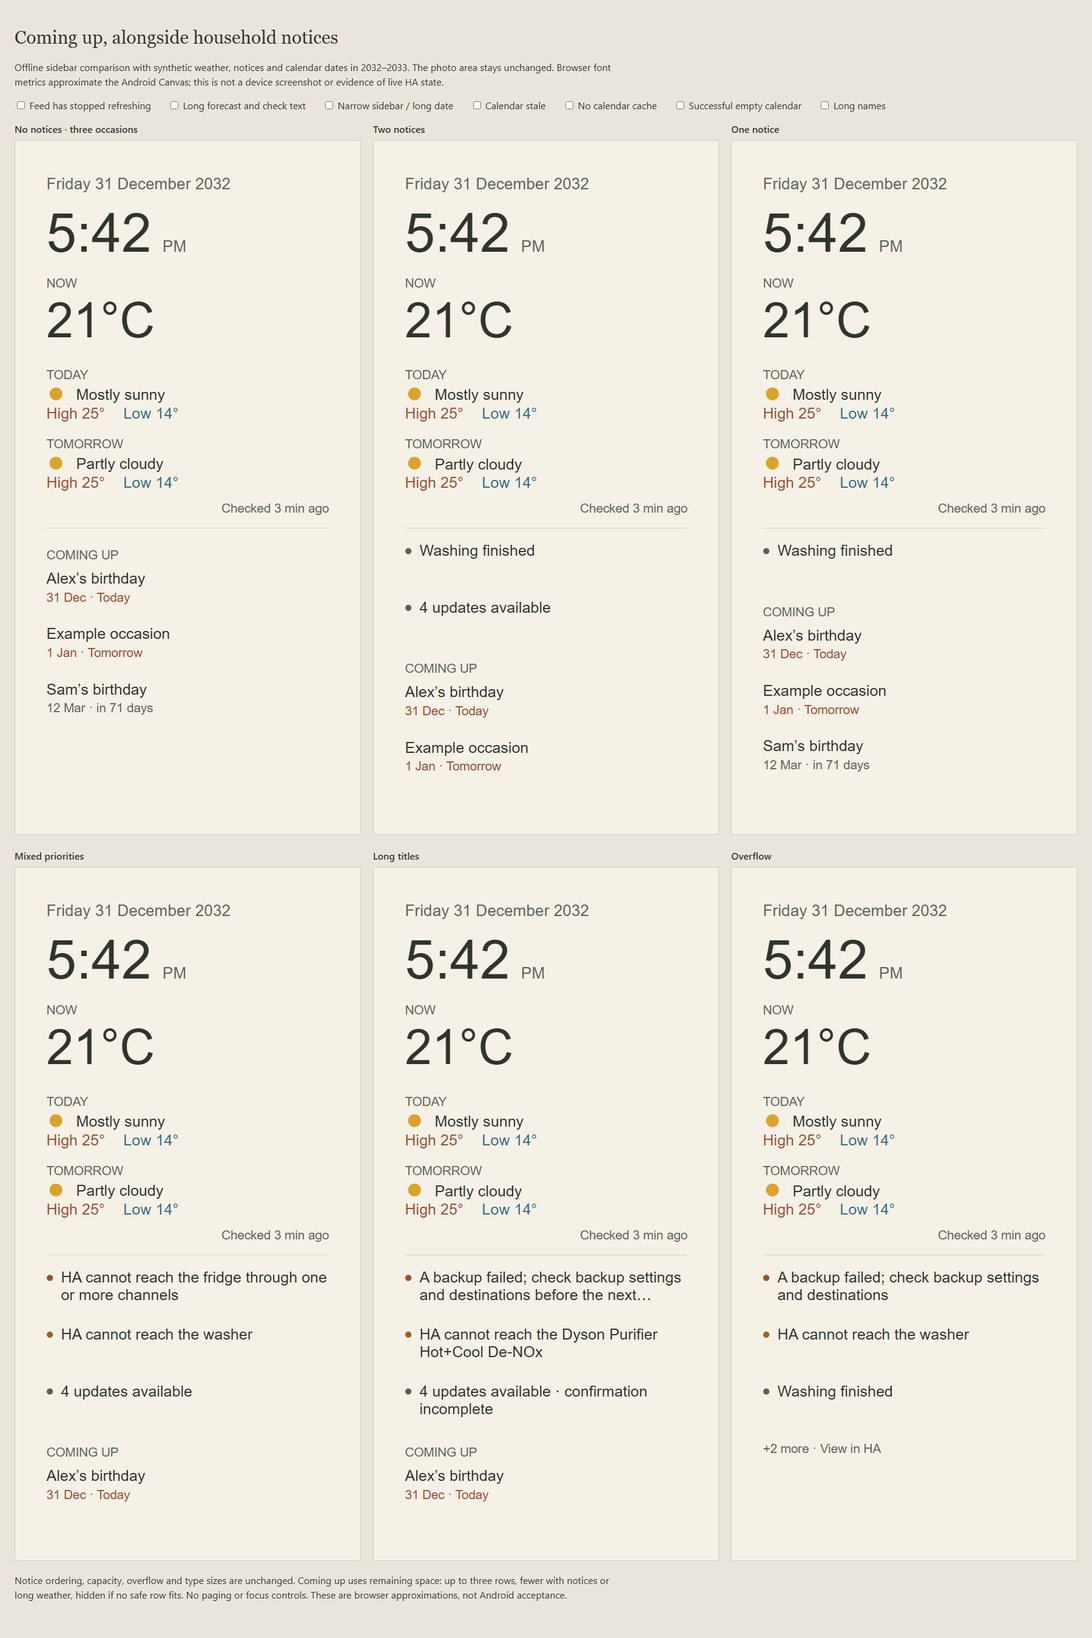
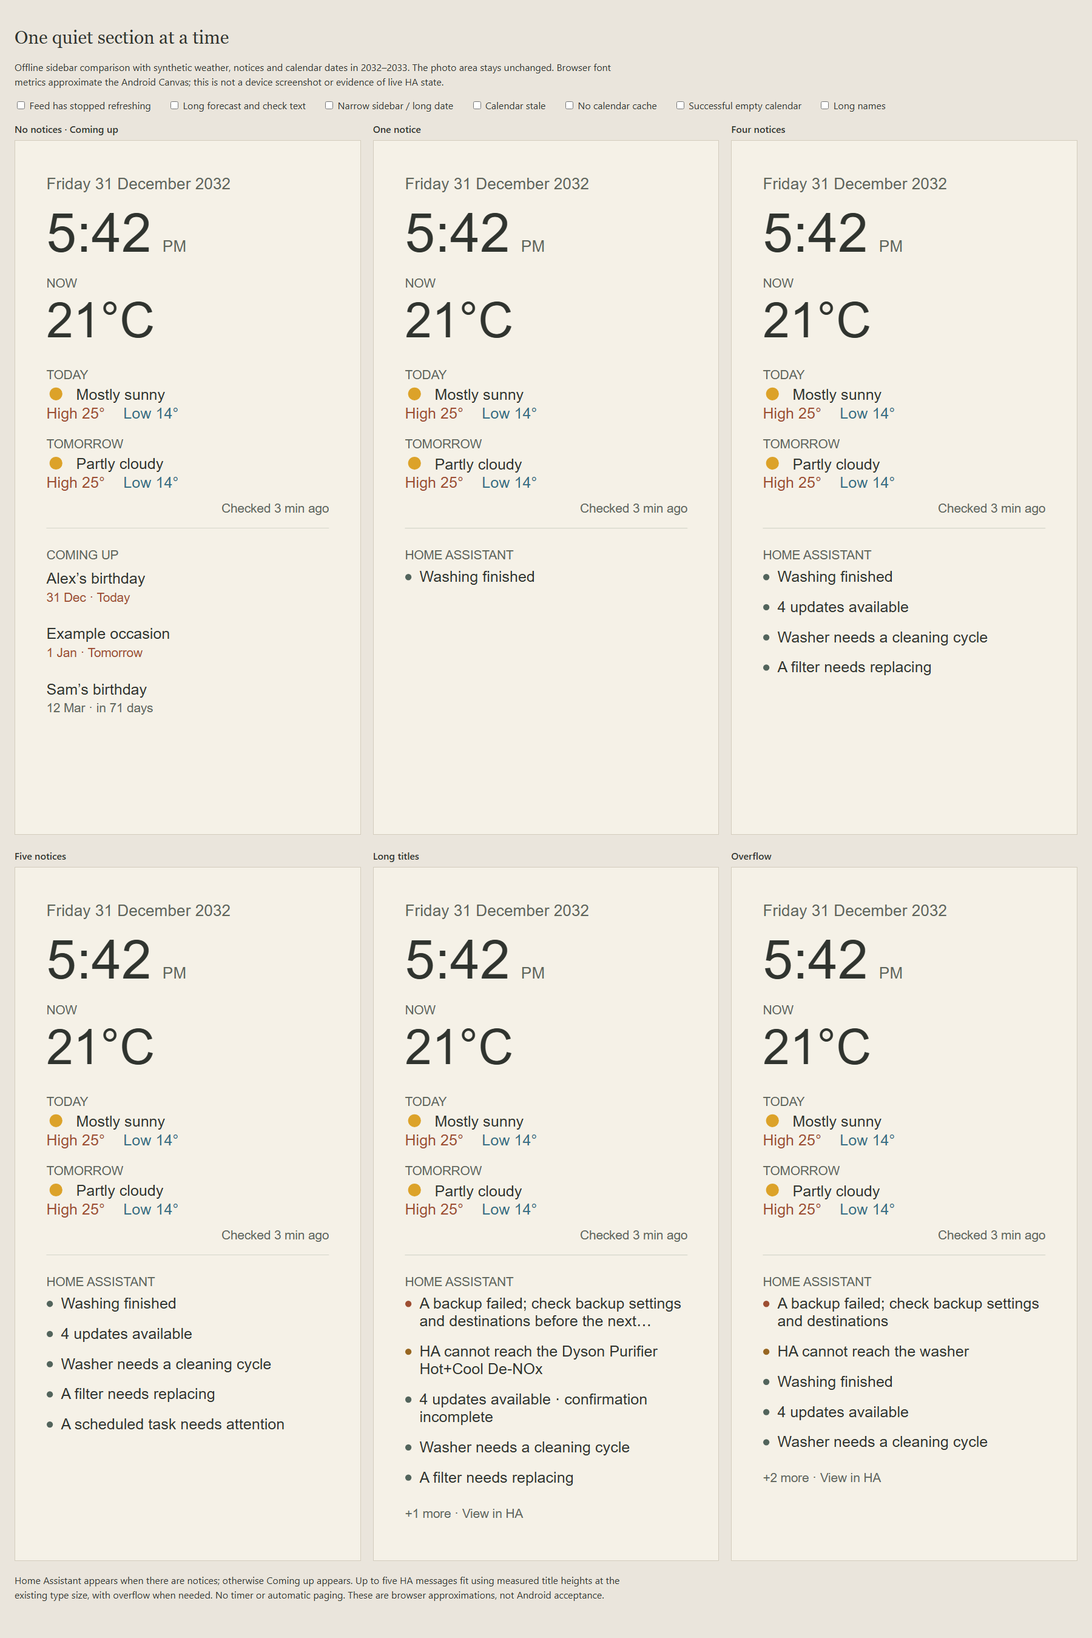
Show Home Assistant or Coming up as exclusive sidebar sections

diff --git a/docs/calendar-comparison.html b/docs/calendar-comparison.html
@@ -8,7 +8,7 @@ main{max-width:1800px;margin:auto;padding:24px}h1{font:400 30px Georgia,serif}p{
 svg{width:100%;background:#f5f1e7;border:1px solid #d3ccbd}label{display:inline-block;margin:0 24px 18px 0}
 @media(max-width:1000px){.boards{grid-template-columns:repeat(2,minmax(0,1fr))}}@media(max-width:600px){.boards{grid-template-columns:1fr}}
 </style><main>
-<h1>Coming up, alongside household notices</h1>
+<h1>One quiet section at a time</h1>
 <p>Offline sidebar comparison with synthetic weather, notices and calendar dates in 2032–2033. The photo area stays unchanged. Browser font metrics approximate the Android Canvas; this is not a device screenshot or evidence of live HA state.</p>
 <label><input type="checkbox" id="stale"> Feed has stopped refreshing</label>
 <label><input type="checkbox" id="longWeather"> Long forecast and check text</label>
@@ -18,24 +18,25 @@ svg{width:100%;background:#f5f1e7;border:1px solid #d3ccbd}label{display:inline-
 <label><input type="checkbox" id="empty"> Successful empty calendar</label>
 <label><input type="checkbox" id="longNames"> Long names</label>
 <div class="boards" id="boards"></div>
-<p>Notice ordering, capacity, overflow and type sizes are unchanged. Coming up uses remaining space: up to three rows, fewer with notices or long weather, hidden if no safe row fits. No paging or focus controls. These are browser approximations, not Android acceptance.</p>
+<p>Home Assistant appears when there are notices; otherwise Coming up appears. Up to five HA messages fit using measured title heights at the existing type size, with overflow when needed. No timer or automatic paging. These are browser approximations, not Android acceptance.</p>
 </main><script>
 const ns='http://www.w3.org/2000/svg',h=1080,ink='#30342f',muted='#60665c';
 const metrics=document.createElement('canvas').getContext('2d');
 const sample=(title,severity='info')=>({title,severity});
-const cases=[['No notices · three occasions',[]],['Two notices',[sample('Washing finished'),sample('4 updates available')]],['One notice',[sample('Washing finished')]],
- ['Mixed priorities',[sample('HA cannot reach the fridge through one or more channels','important'),sample('HA cannot reach the washer','warning'),sample('4 updates available')]],
- ['Long titles',[sample('A backup failed; check backup settings and destinations before the next scheduled backup','important'),sample('HA cannot reach the Dyson Purifier Hot+Cool De-NOx','warning'),sample('4 updates available · confirmation incomplete')]],
- ['Overflow',[sample('A backup failed; check backup settings and destinations','important'),sample('HA cannot reach the washer','warning'),sample('Washing finished'),sample('4 updates available'),sample('Washer needs a cleaning cycle')]]];
+const short=[sample('Washing finished'),sample('4 updates available'),sample('Washer needs a cleaning cycle'),sample('A filter needs replacing'),sample('A scheduled task needs attention')];
+const cases=[['No notices · Coming up',[]],['One notice',[short[0]]],['Four notices',short.slice(0,4)],['Five notices',short],
+ ['Long titles',[sample('A backup failed; check backup settings and destinations before the next scheduled backup','important'),sample('HA cannot reach the Dyson Purifier Hot+Cool De-NOx','warning'),sample('4 updates available · confirmation incomplete'),...short.slice(2)]],
+ ['Overflow',[sample('A backup failed; check backup settings and destinations','important'),sample('HA cannot reach the washer','warning'),...short]]];
 function node(parent,type,attrs={},value){const n=document.createElementNS(ns,type);for(const [k,v]of Object.entries(attrs))n.setAttribute(k,v);if(value!==undefined)n.textContent=value;parent.append(n);return n}
 function draw(svg,items,baseline){
  const narrow=document.querySelector('#narrow').checked,long=document.querySelector('#longWeather').checked,stale=document.querySelector('#stale').checked;
  const w=narrow?395:537.6,x=48.6,right=w-x,width=right-x;svg.setAttribute('viewBox',`0 0 ${w} 1080`);
  function text(value,y,size=23.76,color=ink,tx=x,weight=400){return node(svg,'text',{x:tx,y,'font-size':size,fill:color,'font-family':'Arial, sans-serif','font-weight':weight},value)}
- function paragraph(value,y,size=23.76,color=ink,tx=x,max=width,rightAlign=false){
+ function paragraph(value,y,size=23.76,color=ink,tx=x,max=width,rightAlign=false,measure=false){
   metrics.font=`${size}px Arial`;const words=value.split(' '),lines=[];let line='';
   for(const word of words){const next=line?line+' '+word:word;if(line&&metrics.measureText(next).width>max){lines.push(line);line=word;}else line=next;}if(line)lines.push(line);
   if(lines.length>2){lines.length=2;let last=lines[1];while(last&&metrics.measureText(last+'…').width>max)last=last.slice(0,-1);lines[1]=last+'…';}
+  if(measure)return lines.length*size*1.16;
   lines.forEach((v,i)=>{const n=text(v,y+i*size*1.16,size,color,rightAlign?tx+max:tx);if(rightAlign)n.setAttribute('text-anchor','end');});
   return y+(lines.length-1)*size*1.16;
  }
@@ -52,13 +53,20 @@ function draw(svg,items,baseline){
  const checked=paragraph(long?'Checked 3 min ago · Forecast check overdue':'Checked 3 min ago',baseline?Math.max(631.8,tomorrowEnd+38.88):tomorrowEnd+38.88,19.44,muted,x,width,true);
  const divider=baseline?712.8:checked+23.76;node(svg,'line',{x1:x,y1:divider,x2:right,y2:divider,stroke:'#d5d6ca'});
  if(baseline)return;
- const status=stale?'Notices may be out of date':'',top=divider+16.2,row=88.56,bottom=1031.4-(status?56.16:0);
- const capacity=bottom=>Math.max(0,Math.min(3,Math.floor((bottom-top)/row)));
- let count=capacity(bottom);if(items.length>count)count=capacity(bottom-37.8);count=Math.min(count,items.length);
- items.slice(0,count).forEach((item,i)=>{const y=top+27+i*row;node(svg,'circle',{cx:x+5.4,cy:y-7.56,r:4.86,fill:item.severity==='important'?'#9d4e32':item.severity==='warning'?'#976621':'#52645c'});paragraph(item.title,y,23.76,ink,x+22.68,width-22.68);});
- if(items.length>count)text(`+${items.length-count} more · View in HA`,top+count*row+27,19.44,muted);
- if(status)paragraph(status,1009.8,19.44,muted);
- const calendarTop=top+count*row+(items.length>count?48.6:0);
+ const status=stale?'Notices may be out of date':'',top=divider+16.2,bottom=1031.4-(status?56.16:0);
+ if(items.length) {
+  text('HOME ASSISTANT',top+32.4,19.44,muted);
+  const bodyTop=top+48.6,heights=items.slice(0,5).map(item=>paragraph(item.title,0,23.76,ink,x+22.68,width-22.68,false,true)+19.44);
+  let count=0,used=0;while(count<Math.min(5,items.length)&&used+heights[count]<=bottom-bodyTop)used+=heights[count++];
+  while(count>0&&count<items.length&&used+37.8>bottom-bodyTop)used-=heights[--count];
+  let rowTop=bodyTop;
+  items.slice(0,count).forEach((item,i)=>{const y=rowTop+23.76*.8;node(svg,'circle',{cx:x+5.4,cy:y-7.56,r:4.86,fill:item.severity==='important'?'#9d4e32':item.severity==='warning'?'#976621':'#52645c'});paragraph(item.title,y,23.76,ink,x+22.68,width-22.68);rowTop+=heights[i];});
+  if(items.length>count)text(`+${items.length-count} more · View in HA`,rowTop+27,19.44,muted);
+  if(status)paragraph(status,1009.8,19.44,muted);
+  return;
+ }
+ if(status)paragraph('Home Assistant: '+status,1009.8,19.44,muted);
+ const calendarTop=top;
  const unavailable=document.querySelector('#unavailable').checked,empty=document.querySelector('#empty').checked;
  const calendarStatus=unavailable?'Calendar unavailable':document.querySelector('#calendarStale').checked?'Calendar may be out of date':'';
  const longNames=document.querySelector('#longNames').checked;

diff --git a/android/src/au/wright/ambient/InformationPanel.java b/android/src/au/wright/ambient/InformationPanel.java
@@ -50,11 +50,12 @@ final class InformationPanel extends View {
     }
     private void accessibility() {
         StringBuilder description=new StringBuilder(lastContent);
+        description.append(NoticePresentation.showNotices(notices.size())?". Home Assistant":". Coming up");
         for(NoticePresentation.Item item:notices)description.append(". ").append(item.title);
         if(!noticeStatus.isEmpty())description.append(". ").append(noticeStatus);
-        for(CalendarPresentation.Item item:occasions)description.append(". ").append(item.title).append(" ")
+        if(!NoticePresentation.showNotices(notices.size()))for(CalendarPresentation.Item item:occasions)description.append(". ").append(item.title).append(" ")
             .append(CalendarPresentation.detail(item,calendarNow));
-        if(!calendarStatus.isEmpty())description.append(". ").append(calendarStatus);
+        if(!NoticePresentation.showNotices(notices.size())&&!calendarStatus.isEmpty())description.append(". ").append(calendarStatus);
         setContentDescription(description.toString());
     }
     InformationPanel(Context context) { super(context);setImportantForAccessibility(IMPORTANT_FOR_ACCESSIBILITY_YES); }
@@ -130,24 +131,34 @@ final class InformationPanel extends View {
         canvas.restoreToCount(save);
     }
     private void drawNotices(Canvas canvas,float x,float top,float h,float w) {
-        float bottom=h*0.955f,rowHeight=h*0.082f;
-        if(!noticeStatus.isEmpty())bottom-=h*0.052f;
-        int count=NoticePresentation.capacity(top,bottom,rowHeight);
-        if(notices.size()>count)count=NoticePresentation.capacity(top,bottom-h*0.035f,rowHeight);
-        count=Math.min(count,notices.size());
+        float bottom=h*.955f;
+        if(!noticeStatus.isEmpty())bottom-=h*.052f;
+        if(!NoticePresentation.showNotices(notices.size())) {
+            drawCalendar(canvas,x,top,bottom,h,w);
+            if(!noticeStatus.isEmpty())paragraph(canvas,"Home Assistant: "+noticeStatus,x,h*.935f,h*.018f,w,0xff60665c,false);
+            return;
+        }
+        text(canvas,"HOME ASSISTANT",x,top+h*.03f,h*.018f,w,0xff60665c,normal);
+        float bodyTop=top+h*.045f;
+        int measured=Math.min(5,notices.size());
+        StaticLayout[] blocks=new StaticLayout[measured];float[] heights=new float[measured];
+        for(int i=0;i<measured;i++) {
+            blocks[i]=textBlock(notices.get(i).title,h*.022f,w-h*.021f,0xff30342f,false);
+            heights[i]=blocks[i].getHeight()+h*.018f;
+        }
+        int count=NoticePresentation.fittedCount(notices.size(),heights,bottom-bodyTop,h*.035f);
+        float rowTop=bodyTop;
         for(int i=0;i<count;i++) {
-            NoticePresentation.Item item=notices.get(i);float baseline=top+h*0.025f+i*rowHeight;
+            NoticePresentation.Item item=notices.get(i);
             paint.setStyle(Paint.Style.FILL);
             paint.setColor(item.severity.equals("important")?0xff9d4e32:item.severity.equals("warning")?0xff976621:0xff52645c);
-            canvas.drawCircle(x+h*0.005f,baseline-h*0.007f,h*0.0045f,paint);
-            paragraph(canvas,item.title,x+h*0.021f,baseline,h*0.022f,w-h*0.021f,0xff30342f,false);
+            canvas.drawCircle(x+h*.005f,rowTop+blocks[i].getLineBaseline(0)-h*.007f,h*.0045f,paint);
+            int save=canvas.save();canvas.translate(x+h*.021f,rowTop);blocks[i].draw(canvas);canvas.restoreToCount(save);
+            rowTop+=heights[i];
         }
         int overflow=NoticePresentation.overflow(notices.size(),count);
-        if(overflow>0)text(canvas,"+"+overflow+" more · View in HA",x,top+count*rowHeight+h*0.025f,h*0.018f,w,0xff60665c,normal);
-        if(!noticeStatus.isEmpty())paragraph(canvas,noticeStatus,x,h*0.935f,h*0.018f,w,0xff60665c,false);
-        // Preserve the original notice allocation, then spend only remaining space.
-        float calendarTop=top+count*rowHeight+(overflow>0?h*0.045f:0);
-        drawCalendar(canvas,x,calendarTop,bottom,h,w);
+        if(overflow>0)text(canvas,"+"+overflow+" more · View in HA",x,rowTop+h*.025f,h*.018f,w,0xff60665c,normal);
+        if(!noticeStatus.isEmpty())paragraph(canvas,noticeStatus,x,h*.935f,h*.018f,w,0xff60665c,false);
     }
     private void drawCalendar(Canvas canvas,float x,float top,float bottom,float h,float w) {
         boolean status=!calendarStatus.isEmpty();
@@ -187,6 +198,12 @@ final class InformationPanel extends View {
             .setIncludePad(false).setMaxLines(2).setEllipsize(TextUtils.TruncateAt.END).build();
         int save=canvas.save();canvas.translate(x,baseline-block.getLineBaseline(0));block.draw(canvas);canvas.restoreToCount(save);
         return baseline+block.getLineBaseline(block.getLineCount()-1)-block.getLineBaseline(0);
+    }
+    private StaticLayout textBlock(String value,float size,float width,int colour,boolean right) {
+        TextPaint style=new TextPaint(Paint.ANTI_ALIAS_FLAG);style.setTypeface(normal);style.setTextSize(size);style.setColor(colour);
+        return StaticLayout.Builder.obtain(value,0,value.length(),style,Math.max(1,(int)width))
+            .setAlignment(right?Layout.Alignment.ALIGN_OPPOSITE:Layout.Alignment.ALIGN_NORMAL)
+            .setIncludePad(false).setMaxLines(2).setEllipsize(TextUtils.TruncateAt.END).build();
     }
     private void text(Canvas canvas,String text,float x,float baseline,float size,float width,int colour,Typeface face) {
         if(text.isEmpty())return;paint.setTypeface(face);paint.setTextSize(size);

diff --git a/android/test/CalendarPresentationTest.java b/android/test/CalendarPresentationTest.java
@@ -55,16 +55,13 @@ public final class CalendarPresentationTest {
         root=feed(Arrays.asList(today));root.put("schemaVersion",1.5);rejects(root);
         root=feed(Arrays.asList(today));root.put("timezone","UTC");rejects(root);
         root=feed(Arrays.asList(today));root.put("fetchedAt","bad");rejects(root);
-        // Exhaustively preserve original notice capacity and allocate calendar only afterward.
-        for(float top:new float[]{580,660,740,840})for(int total=0;total<=8;total++)for(boolean stale:new boolean[]{false,true}) {
-            float h=1080,rowHeight=h*.082f,bottom=h*.955f-(stale?h*.052f:0);
-            int notices=NoticePresentation.capacity(top,bottom,rowHeight);
-            if(total>notices)notices=NoticePresentation.capacity(top,bottom-h*.035f,rowHeight);
-            notices=Math.min(notices,total);int overflow=NoticePresentation.overflow(total,notices);
-            float remainingTop=top+notices*rowHeight+(overflow>0?h*.045f:0);
-            int count=CalendarPresentation.capacity(remainingTop,bottom,h,stale);
+        // Coming up owns the lower section only while the visible HA list is empty.
+        for(int total=0;total<=8;total++)check(NoticePresentation.showNotices(total)==(total>0),"exactly one section selected");
+        for(float top:new float[]{580,660,740,840})for(boolean stale:new boolean[]{false,true}) {
+            float h=1080,bottom=h*.955f-(stale?h*.052f:0);
+            int count=CalendarPresentation.capacity(top,bottom,h,stale);
             check(count>=0&&count<=3,"bounded calendar rows");
-            if(count>0)check(remainingTop+h*.045f+count*h*.08f+(stale?h*.05f:0)<=bottom+.01f,"calendar within remaining space");
+            if(count>0)check(top+h*.045f+count*h*.08f+(stale?h*.05f:0)<=bottom+.01f,"calendar stays within bounds");
         }
         check(CalendarPresentation.capacity(600,1031,1080,false)==3,"three rows with spare space");
         check(CalendarPresentation.capacity(950,1031,1080,false)==0,"hide when no safe row");

diff --git a/android/test/NoticePresentationTest.java b/android/test/NoticePresentationTest.java
@@ -40,9 +40,13 @@ public final class NoticePresentationTest {
         check(NoticePresentation.visible(events,NOW.plusSeconds(60)).isEmpty(),"event expires at deadline offline");
         Map<String,Object> cleared=item("cleared","warning",at);cleared.put("active",false);
         check(NoticePresentation.visible(NoticePresentation.parse(feed(Arrays.asList(cleared))),NOW).isEmpty(),"inactive fault absent");
-        check(NoticePresentation.capacity(0,350,100)==3,"maximum three rows");
-        check(NoticePresentation.capacity(0,250,100)==2,"fit fewer without shrinking");
-        check(NoticePresentation.capacity(350,300,100)==0,"no negative capacity");
+        check(!NoticePresentation.showNotices(0)&&NoticePresentation.showNotices(1),"exclusive sections follow visible list");
+        check(NoticePresentation.fittedCount(5,new float[]{40,40,40,40,40},220,25)==5,"five short messages fit");
+        check(NoticePresentation.fittedCount(4,new float[]{40,70,40,70},220,25)==4,"four measured mixed rows fit exactly");
+        check(NoticePresentation.fittedCount(6,new float[]{40,40,40,40,40},220,25)==4,"overflow reserves its own space");
+        check(NoticePresentation.fittedCount(5,new float[]{70,70,70,70,70},220,25)==2,"long titles reduce count without smaller type");
+        check(NoticePresentation.fittedCount(1,new float[]{70},-1,25)==0,"no negative capacity");
+        check(NoticePresentation.fittedCount(0,new float[]{},220,25)==0,"empty list");
         check(NoticePresentation.overflow(5,3)==2&&NoticePresentation.overflow(1,3)==0,"overflow count");
         root=feed(rows);root.put("version",2);rejects(root,"schema version");
         root=feed(rows);root.put("version",1.5);rejects(root,"fractional version");

diff --git a/android/src/au/wright/ambient/NoticePresentation.java b/android/src/au/wright/ambient/NoticePresentation.java
@@ -59,8 +59,13 @@ public final class NoticePresentation {
         long age=now.toEpochMilli()-Instant.parse(snapshot.fetchedAt).toEpochMilli();
         return snapshot.upstreamStale||age<0||age>=120000?"Notices may be out of date":"";
     }
-    public static int capacity(float top,float bottom,float rowHeight) {
-        return Math.max(0,Math.min(3,(int)Math.floor((bottom-top)/rowHeight)));
+    public static boolean showNotices(int visibleCount) { return visibleCount>0; }
+    /** Measured title heights include the gap; reserve overflow before choosing rows. */
+    public static int fittedCount(int total,float[] heights,float available,float overflowHeight) {
+        int count=0;float used=0;
+        while(count<Math.min(5,total)&&used+heights[count]<=available)used+=heights[count++];
+        while(count>0&&count<total&&used+overflowHeight>available)used-=heights[--count];
+        return count;
     }
     public static int overflow(int total,int capacity){return Math.max(0,total-capacity);}
     private static int rank(String value){return value.equals("important")?0:value.equals("warning")?1:2;}

diff --git a/CALENDAR.md b/CALENDAR.md
@@ -34,15 +34,24 @@ does not invent annual dates from past events. Distinct same-day occasions remai
 distinct; repeated IDs/date from page overlap deduplicate, conflicting versions
 fail the whole refresh. A successful full snapshot replaces edited/deleted rows.
 
-Existing notice ordering, measured capacity, overflow and status space are
-allocated first. Coming up uses only the remainder, with no smaller text or
-automatic paging. Calendar rows collapse before notices lose space. Today and
-Tomorrow use the existing warm accent. Long calendar titles/details ellipsise;
-accessibility includes their complete text. No cache says “Calendar unavailable”;
-a successful empty snapshot says “No upcoming occasions”. At 24 hours without
-success, show “Calendar may be out of date”. A future fetch time is uncertain
-immediately. Stale rows remain available but past local days expire offline.
-If no safe row/status fits, the calendar block is temporarily hidden.
+The lower sidebar shows one section at a time: **Home Assistant** when the visible
+notice list has entries, otherwise **Coming up**. Up to five HA messages use actual
+Android text heights at the existing readable type size, with two-line wrapping,
+severity ordering and overflow. Short titles take less vertical space than long
+titles. Stale retained notices keep HA visible; event expiry and a valid empty
+snapshot allow Coming up to return. An empty but unavailable/stale HA feed leaves
+a quiet status line beside the calendar rather than implying household health.
+This replaces the first candidate's simultaneous notices/calendar layout following
+user feedback on 15 November 2026. The one-minute carousel remains a proposal;
+there is no timer, automatic paging or new remote gesture. Important notices
+should remain visible if a carousel is considered later.
+
+Calendar Today/Tomorrow use the existing warm accent. Long titles/details
+ellipsise. No calendar cache says “Calendar unavailable”; a successful empty
+snapshot says “No upcoming occasions”. After 24 hours without success, show
+“Calendar may be out of date”. Future fetch times are uncertain immediately.
+Stale rows remain available, but past local days expire offline. If no safe
+row/status fits, the calendar block is temporarily hidden.
 
 Host persistence is `DATA_DIR/calendar.json` (installed default
 `/data/cache/calendar.json`), independent of other caches. A source fingerprint
@@ -139,16 +148,16 @@ Remaining setup, in order:
 - `npm.cmd test`: **51 tests pass**, including Graph pagination/security bounds,
   calendar date/cache/error cases, OAuth renewal and device-flow cases, and all
   existing photo/weather/notice regressions. All dates and tokens are synthetic.
-- `tools/build-android.ps1 -Tools EXISTING_PRIVATE_TOOLCHAIN -Unsigned`: **407 JVM
-  assertions pass** (15 policy, 208 photo, 25 weather, 30 notices, 129 calendar).
+- `tools/build-android.ps1 -Tools EXISTING_PRIVATE_TOOLCHAIN -Unsigned`: **342 JVM
+  assertions pass** (15 policy, 208 photo, 25 weather, 34 notices, 60 calendar).
   Android resource/Java/DEX compilation and APK alignment pass without opening or
   using signing keys. Existing Java 8/deprecated fullscreen API warnings remain.
 - `node tools/package-addon.mjs`, packaged calendar/auth syntax and host import
   checks pass. The package contains both new runtime modules.
 - [Interactive synthetic preview](docs/calendar-comparison.html): normal and
   combined stale/long-weather/narrow/long-name cases rendered and visually checked
-  in headless Edge. Zero/one/two/many notices retain space, overflow remains visible,
-  and calendar collapses where needed. Empty/unavailable toggles are included.
+  in headless Edge. Zero/one/four/five/many notice cases show mutually exclusive sections, with
+  measured wrapping and visible overflow. Empty/unavailable toggles are included.
   This uses browser font metrics, not Android graphics or a device screenshot.
 
 ![Synthetic calendar/sidebar comparison](docs/calendar-preview.png)
@@ -174,7 +183,7 @@ Outstanding acceptance:
   later pages, persistence/restart and recovery.
 - Sony sidebar at couch distance with long names/weather, zero/one/many notices,
   important notices, overflow and stale/unavailable wording. No clipped content,
-  lost notice capacity or changed photo bounds.
+  calendar competing with HA messages or changed photo bounds.
 - Sydney midnight/DST/year rollover and resume while offline; past dates disappear,
   countdown changes, freshness warning appears at 24 hours.
 - Whole-photo/portrait pairs, transitions, saved continuation, weather freshness,
